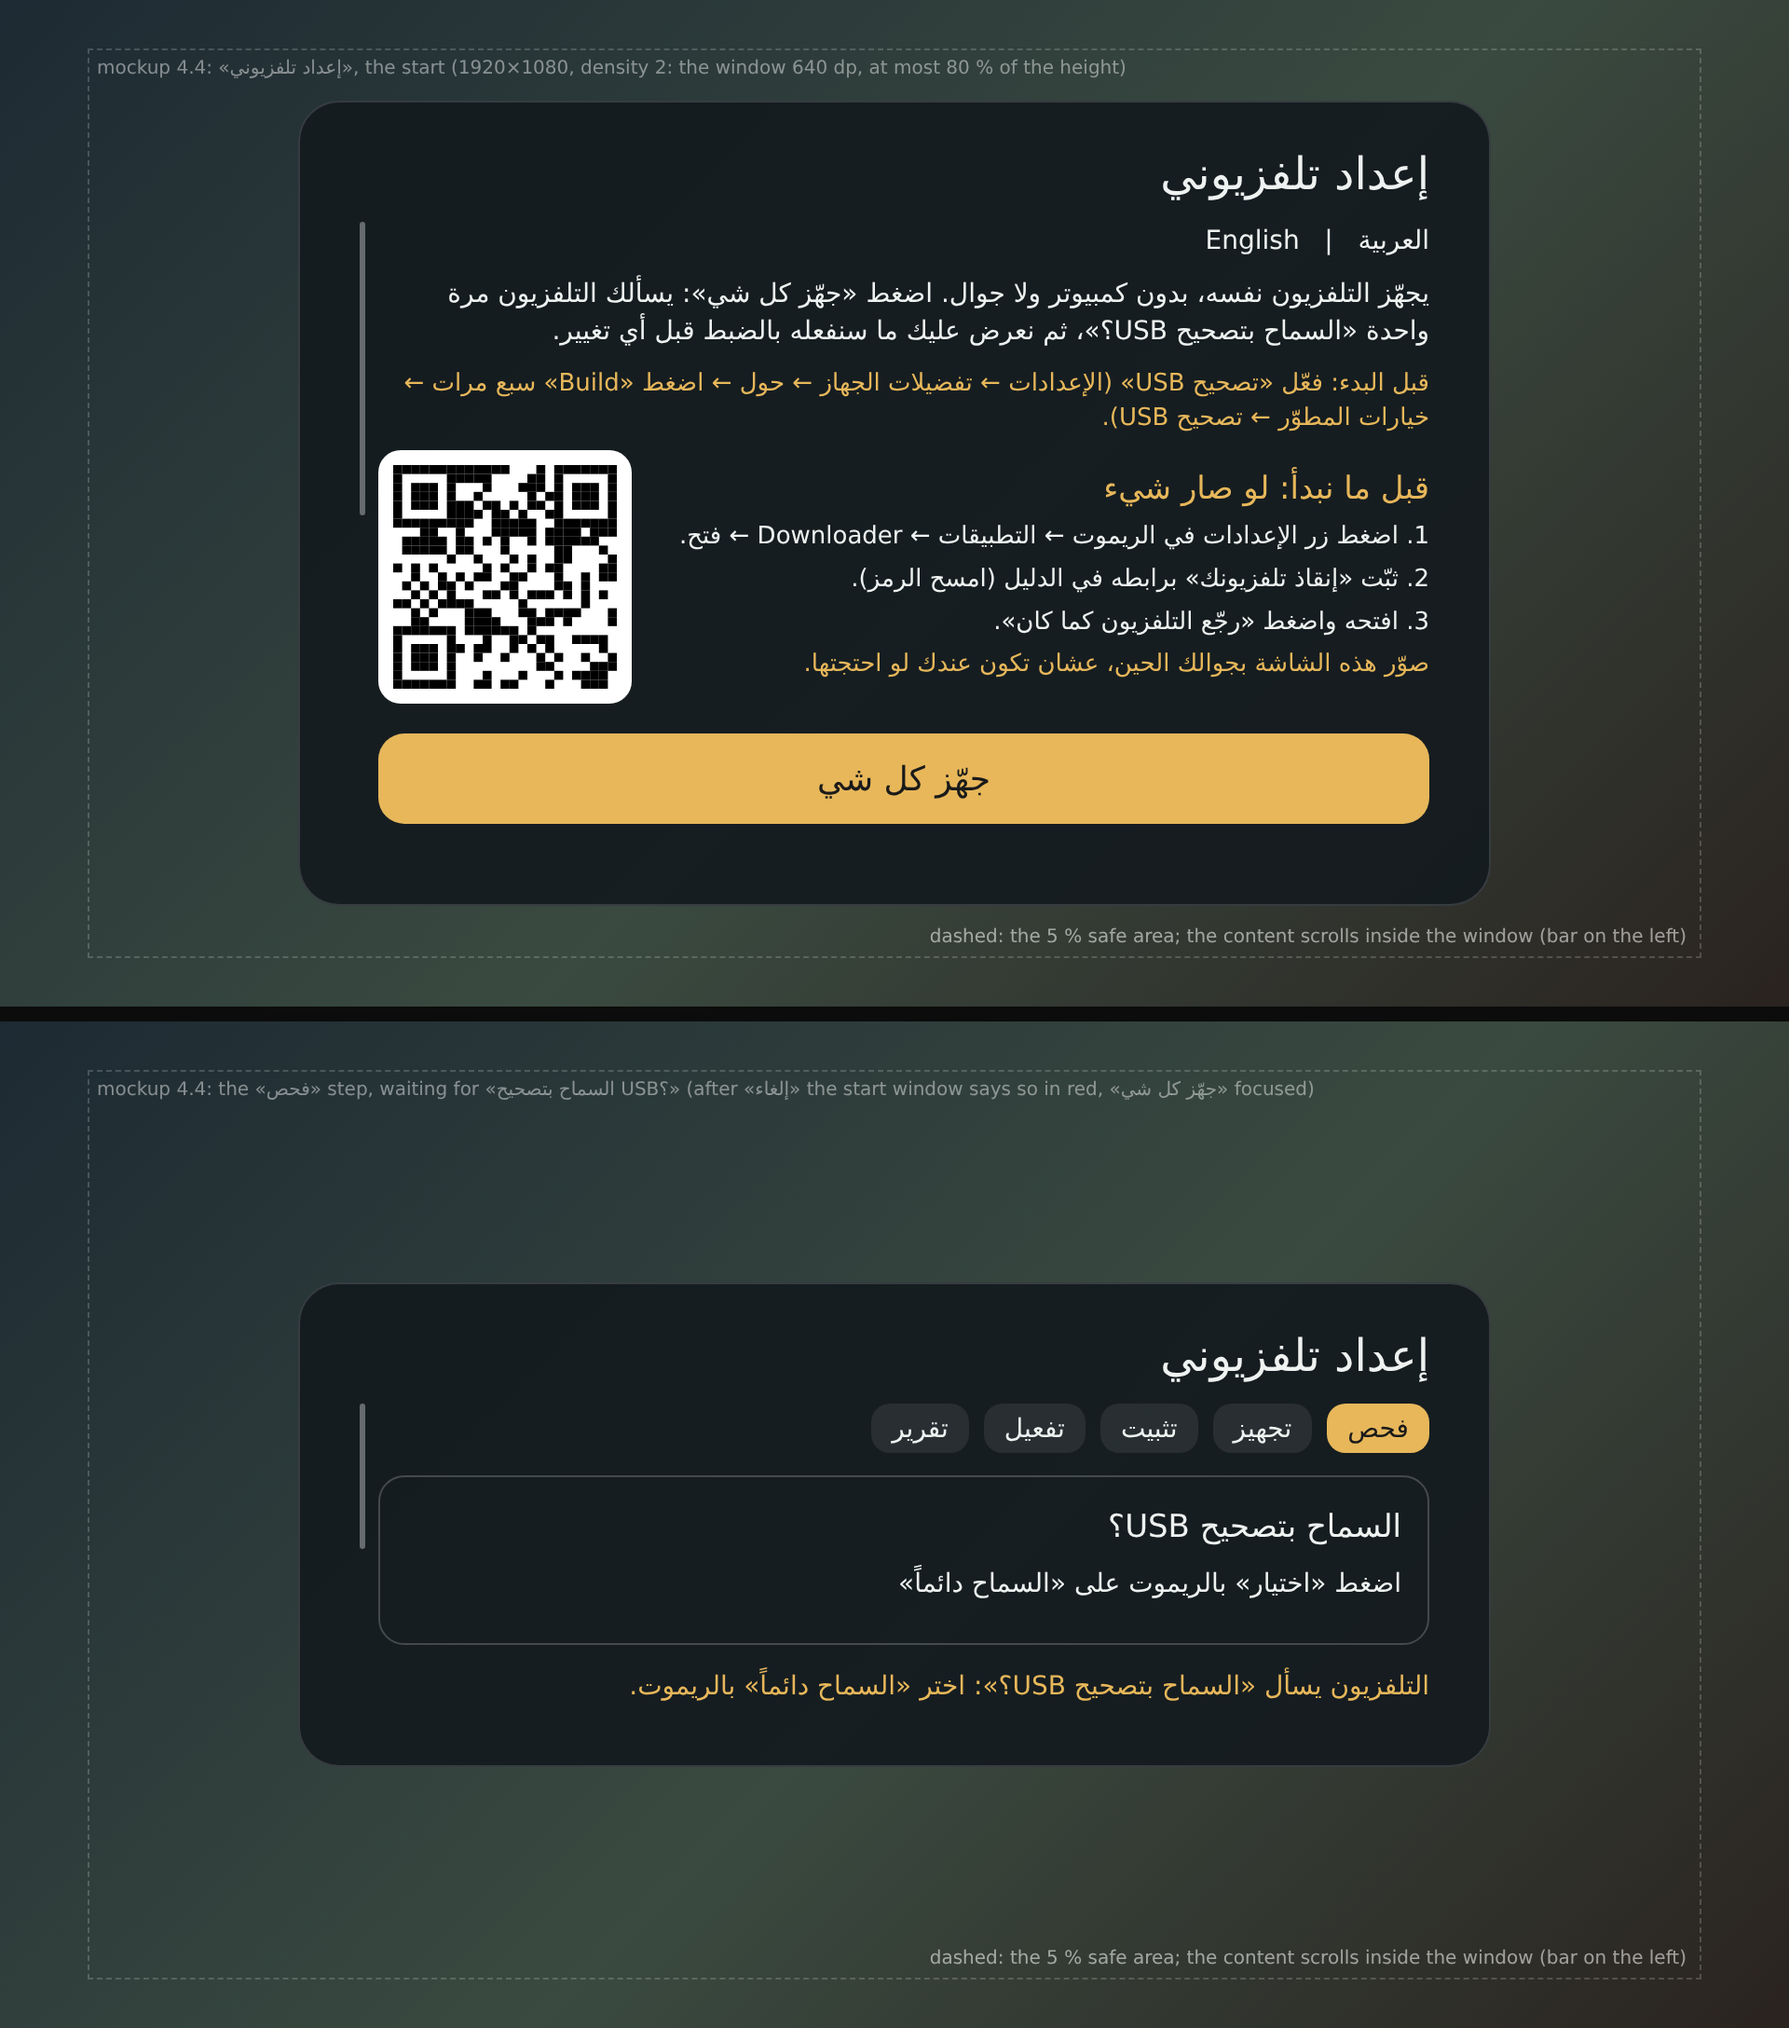
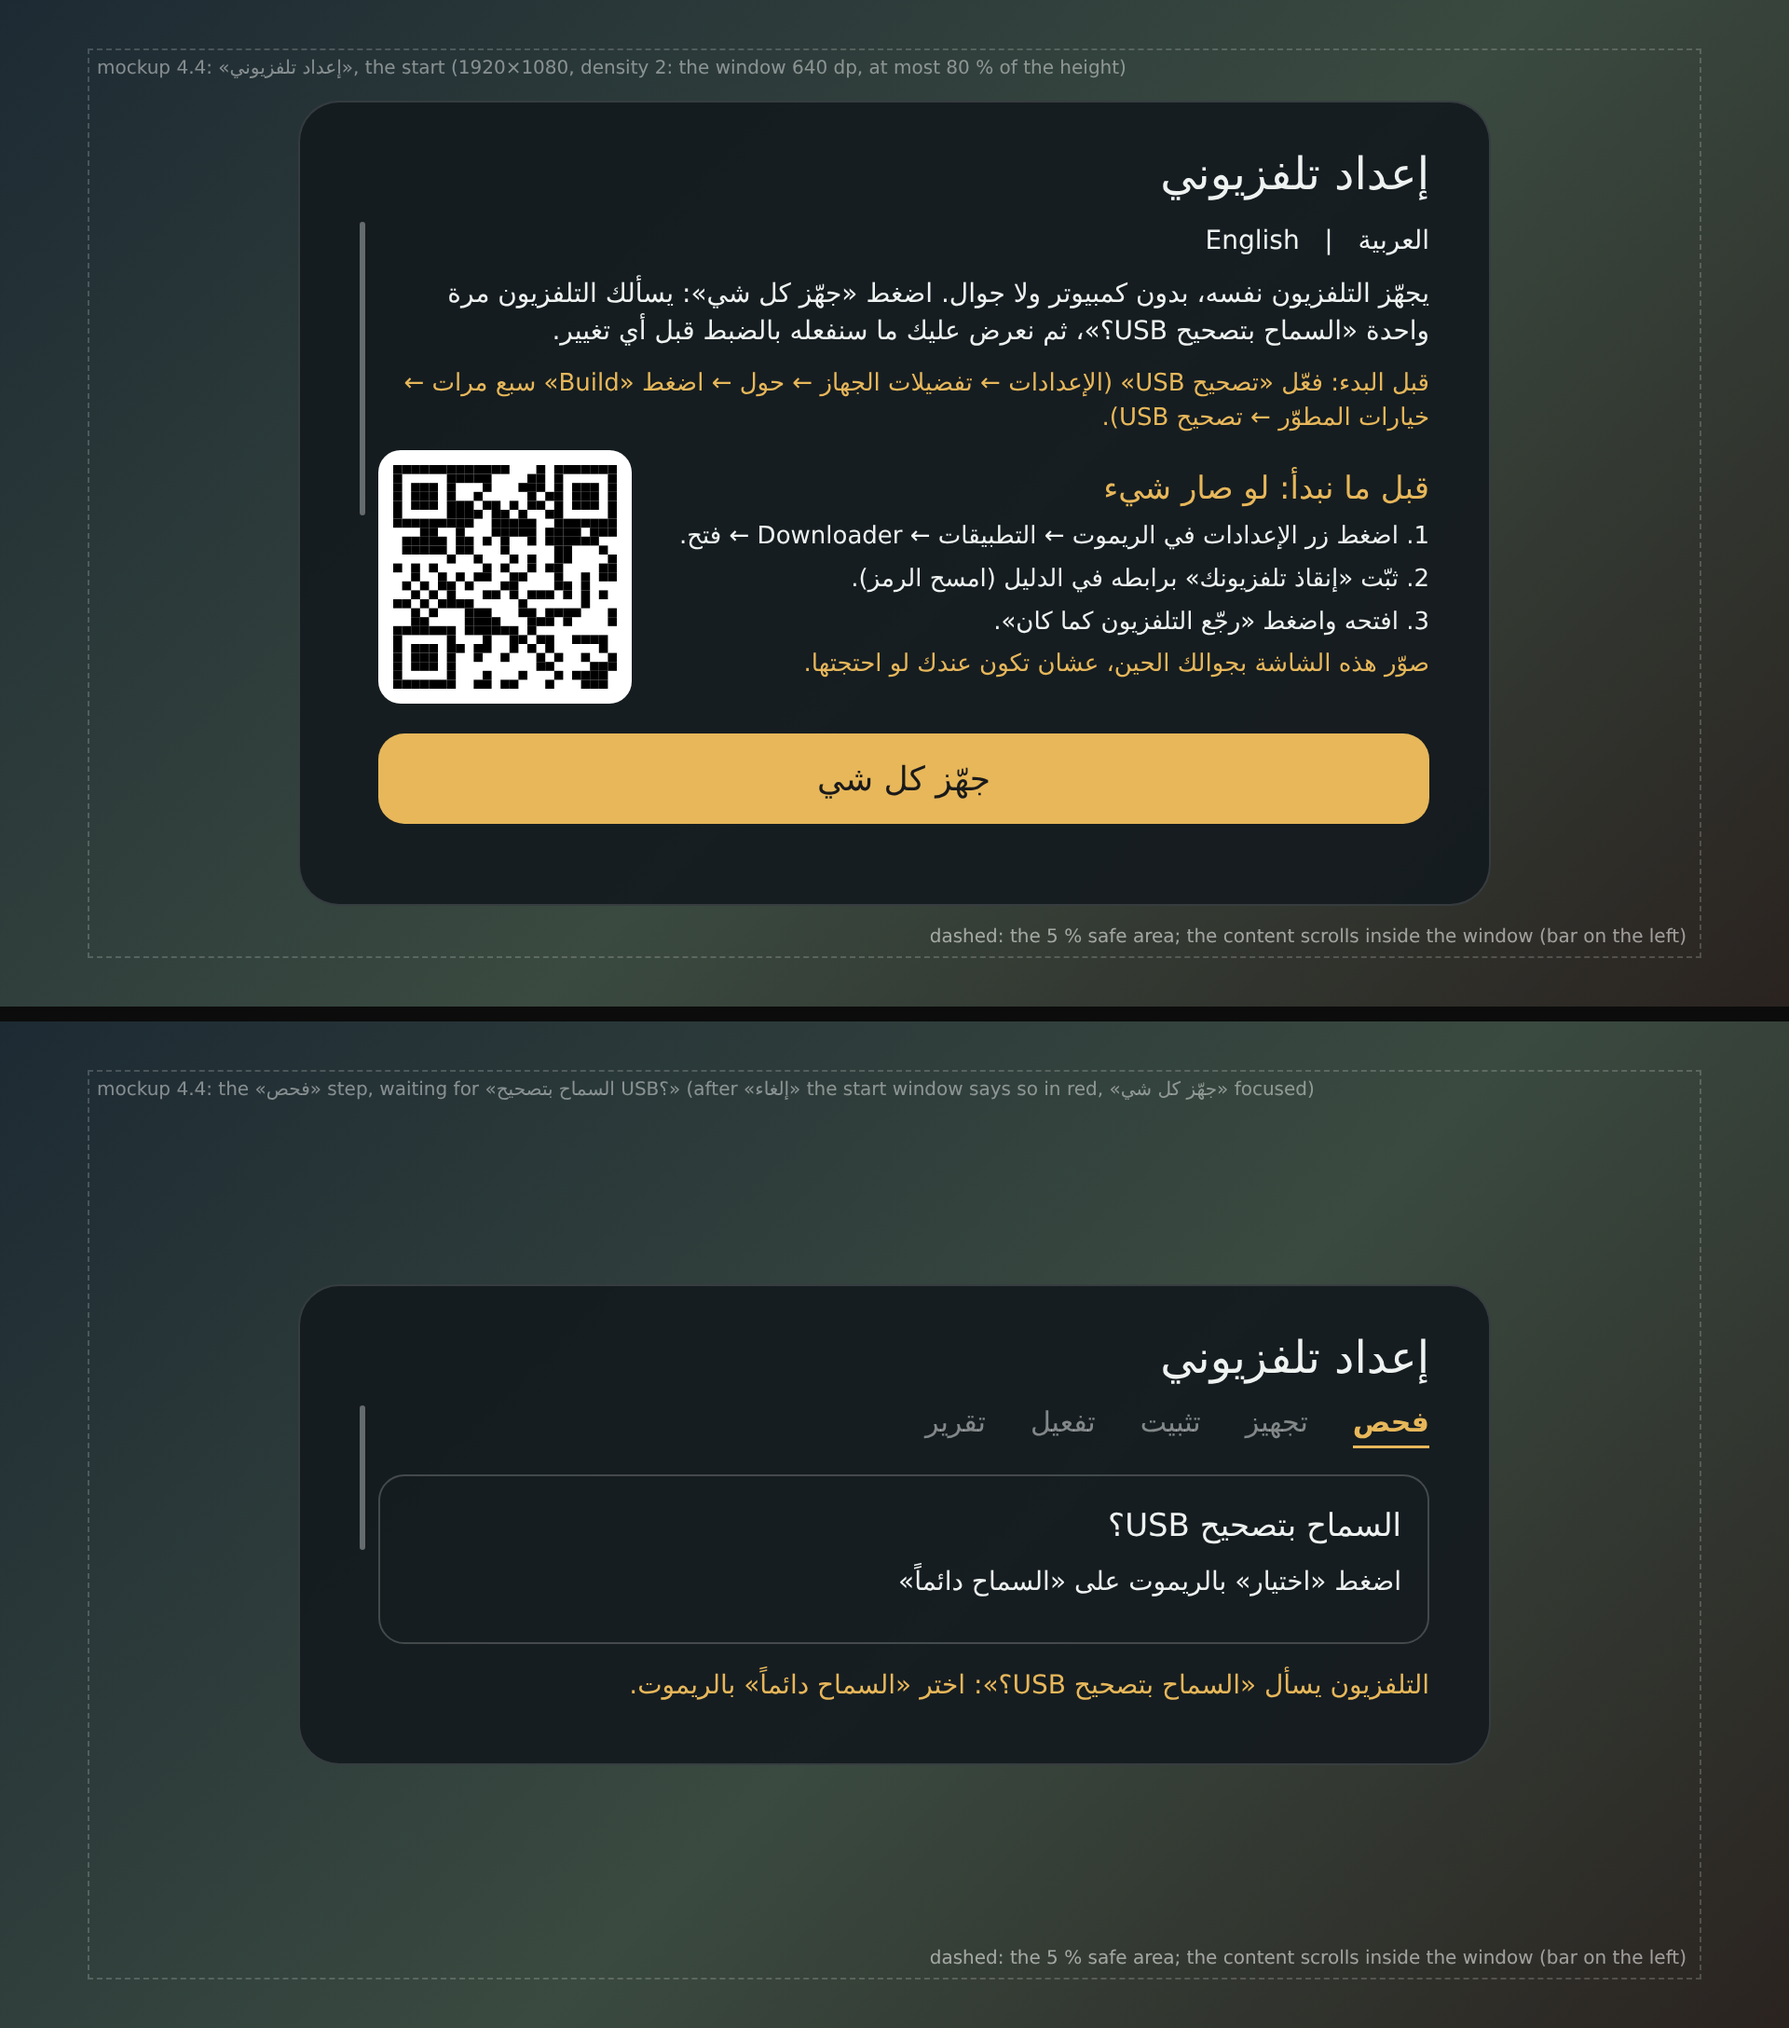
Setup steps: plain words, the step now gold and bold, the others dim (no pills); no «·» in the result line; the mockup redrawn so

diff --git a/android/launcher/src/main/java/sa/urtv/home/setup/SetupProgressView.java b/android/launcher/src/main/java/sa/urtv/home/setup/SetupProgressView.java
@@ -140,7 +140,8 @@ final class SetupProgressView extends LinearLayout {
             r.setGravity(Gravity.CENTER_VERTICAL);
             boolean aboveDone = i > 0 && ph.get(i - 1).state == DONE;
             r.addView(new Mark(getContext(), p.state, i == 0, i == ph.size() - 1, aboveDone), new LayoutParams(dp(36), dp(64)));
-            TextView t = text(p.state == NOW ? 24 : 21, p.state == NOW, p.state == WAIT ? look.sub : p.state == FAILED ? look.warn : look.text);
+            // 4.4 (the owner: no pills): plain words, the step now in the accent (gold) and bold, the others dim; a failed one in red
+            TextView t = text(p.state == NOW ? 24 : 21, p.state == NOW, p.state == NOW ? look.accent : p.state == FAILED ? look.warn : look.sub);
             t.setAlpha(p.state == WAIT ? 0.7f : 1f);
             t.setText(p.name);
             LayoutParams tp = new LayoutParams(0, -2, 1f);
@@ -163,7 +164,7 @@ final class SetupProgressView extends LinearLayout {
         } else if (m.finished) {
             badge.set(!m.bad);
             resultText.setText(m.result);
-            resultSub.setText(m.counts + (m.elapsed.isEmpty() ? "" : " · " + m.elapsed));
+            resultSub.setText(m.counts + (m.elapsed.isEmpty() ? "" : "، " + m.elapsed));   // no «·» between them (the owner's rule)
             breath.stop();
             art.pulse(false);
         } else {

diff --git a/tests/home_fix_test.py b/tests/home_fix_test.py
@@ -81,5 +81,8 @@ qb = act[act.index("private void qrBeside("):act.index("private void qrBeside(")
 check("5. the QR on the LEFT of the screen in both languages, beside its words (the rescue block and the computer's way)",
       "row.setLayoutDirection(View.LAYOUT_DIRECTION_LTR);" in qb and qb.index("row.addView(card") < qb.index("row.addView(words")
       and "qrBeside(words, RescueInfo.DOC_URL, 120);" in act and "qrBeside(words, HomeFails.GUIDE_URL, 120);" in act)
+pv = text(SETUP / "SetupProgressView.java")
+check("5. the steps are plain words (no pills): the step now in the accent and bold, the others dim; no «·» between the counts and the time",
+      "p.state == NOW ? look.accent : p.state == FAILED ? look.warn : look.sub" in pv and '" · "' not in pv)
 check("5. the mockup the owner sees is in docs/mockups/", (ROOT / "docs/mockups/setup-window-44.png").is_file())
 sys.exit(1 if failed else 0)
